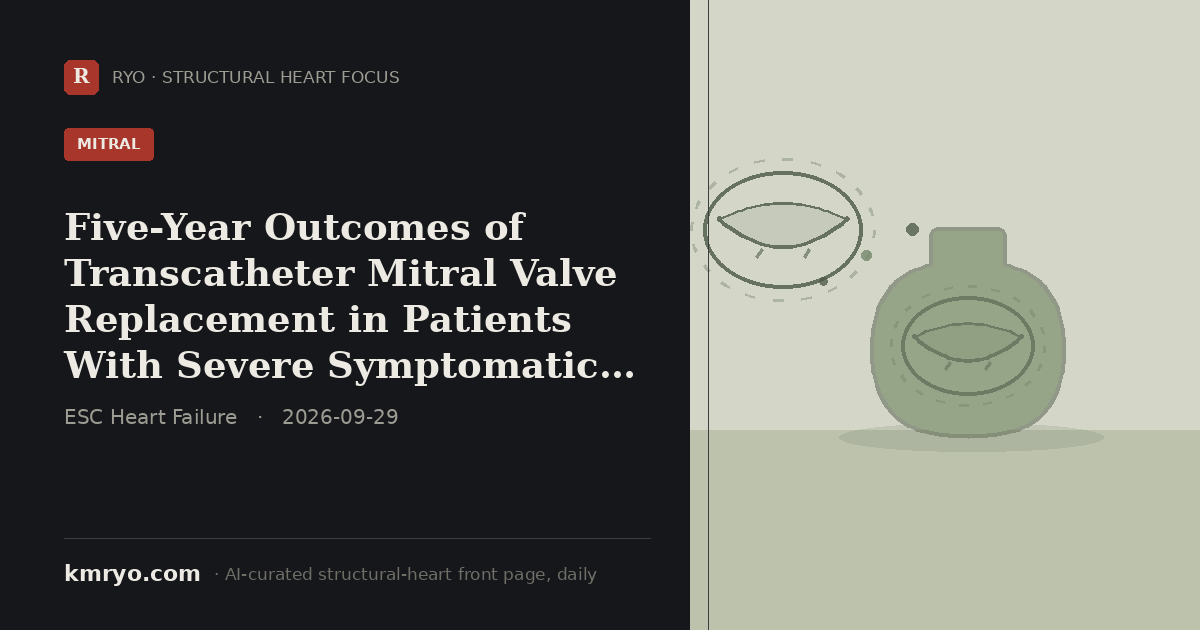
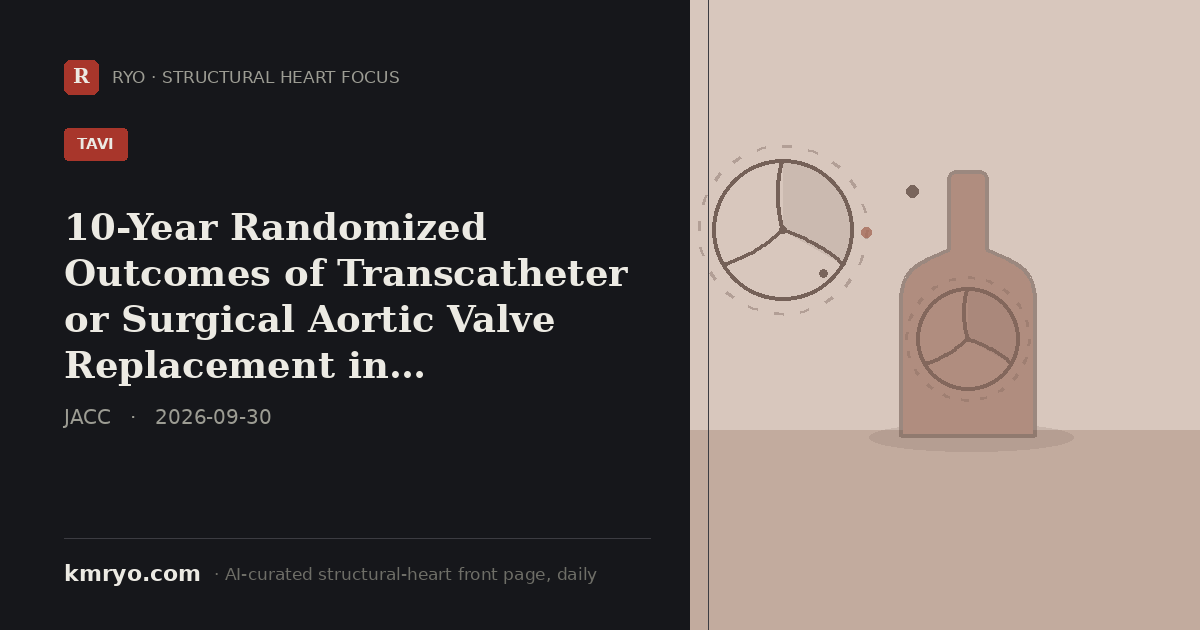
pulse: 2026-09-30 daily update
Claude-Session: https://claude.ai/code/session_01MFZkVkV77oWNK3NEa1T5YT

diff --git a/index.html b/index.html
@@ -6,8 +6,8 @@
 <title>Structural Heart Focus — Daily | Dr. Mi Chen · 千觅量子 RYO</title>
 <meta name="description" content="Structural Heart Focus — the day's most important structural-heart reading (top journals, major meetings and the field's conversation), curated daily by an AI agent from inside the Zurich hybrid room. By Dr. Mi Chen · 千觅量子 RYO.">
 <!-- Social share card. Regenerated daily by the pulse agent (pulse/make_share_card.py); og:title/description updated to the day's top story so LinkedIn/WeChat/X show today's headline, not a static portrait. -->
-<meta property="og:title" content="Five-Year Outcomes of Transcatheter Mitral Valve Replacement in Patients With Severe Symptomatic Mitral Regurgitation: Results From the Tendyne Expanded Clinical Study">
-<meta property="og:description" content="5-year Tendyne TMVR data (n=186) show mitral regurgitation reduced to &le;1+ in 95.3% of patients, with 73.5% of 5-year survivors in NYHA class I/II and no structural valve deterioration.">
+<meta property="og:title" content="10-Year Randomized Outcomes of Transcatheter or Surgical Aortic Valve Replacement in Intermediate-Risk Aortic Stenosis">
+<meta property="og:description" content="PARTNER 2A's 10-year reanalysis shows TAVR with the older SAPIEN XT valve had higher all-cause mortality (86% vs 83%, HR 1.13) and reintervention (6% vs 2%) than surgery, driven by non-transfemoral access.">
 <meta property="og:image" content="https://www.kmryo.com/pulse/img/share/card.png">
 <meta property="og:image:width" content="1200">
 <meta property="og:image:height" content="630">
@@ -16,8 +16,8 @@
 <meta property="og:type" content="website">
 <meta property="og:site_name" content="kmryo.com · Structural Heart Focus">
 <meta name="twitter:card" content="summary_large_image">
-<meta name="twitter:title" content="Five-Year Outcomes of Transcatheter Mitral Valve Replacement in Patients With Severe Symptomatic Mitral Regurgitation: Results From the Tendyne Expanded Clinical Study">
-<meta name="twitter:description" content="5-year Tendyne TMVR data (n=186) show mitral regurgitation reduced to &le;1+ in 95.3% of patients, with 73.5% of 5-year survivors in NYHA class I/II and no structural valve deterioration.">
+<meta name="twitter:title" content="10-Year Randomized Outcomes of Transcatheter or Surgical Aortic Valve Replacement in Intermediate-Risk Aortic Stenosis">
+<meta name="twitter:description" content="PARTNER 2A's 10-year reanalysis shows TAVR with the older SAPIEN XT valve had higher all-cause mortality (86% vs 83%, HR 1.13) and reintervention (6% vs 2%) than surgery, driven by non-transfemoral access.">
 <meta name="twitter:image" content="https://www.kmryo.com/pulse/img/share/card.png">
[1 lines of base64/hex data omitted]
 <link rel="preconnect" href="https://fonts.googleapis.com">
